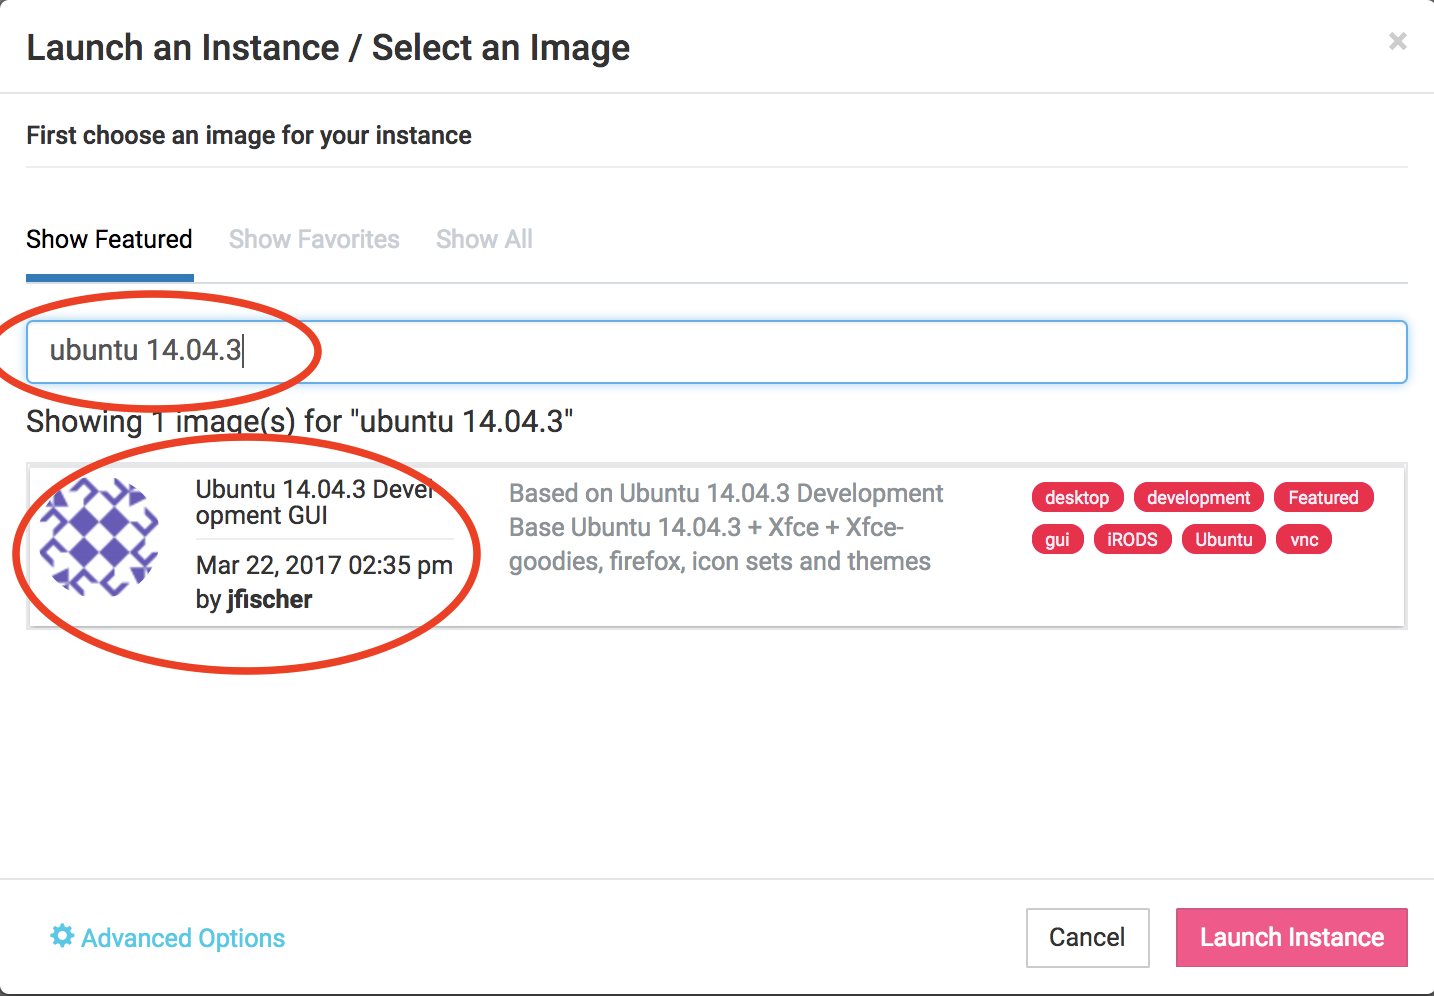
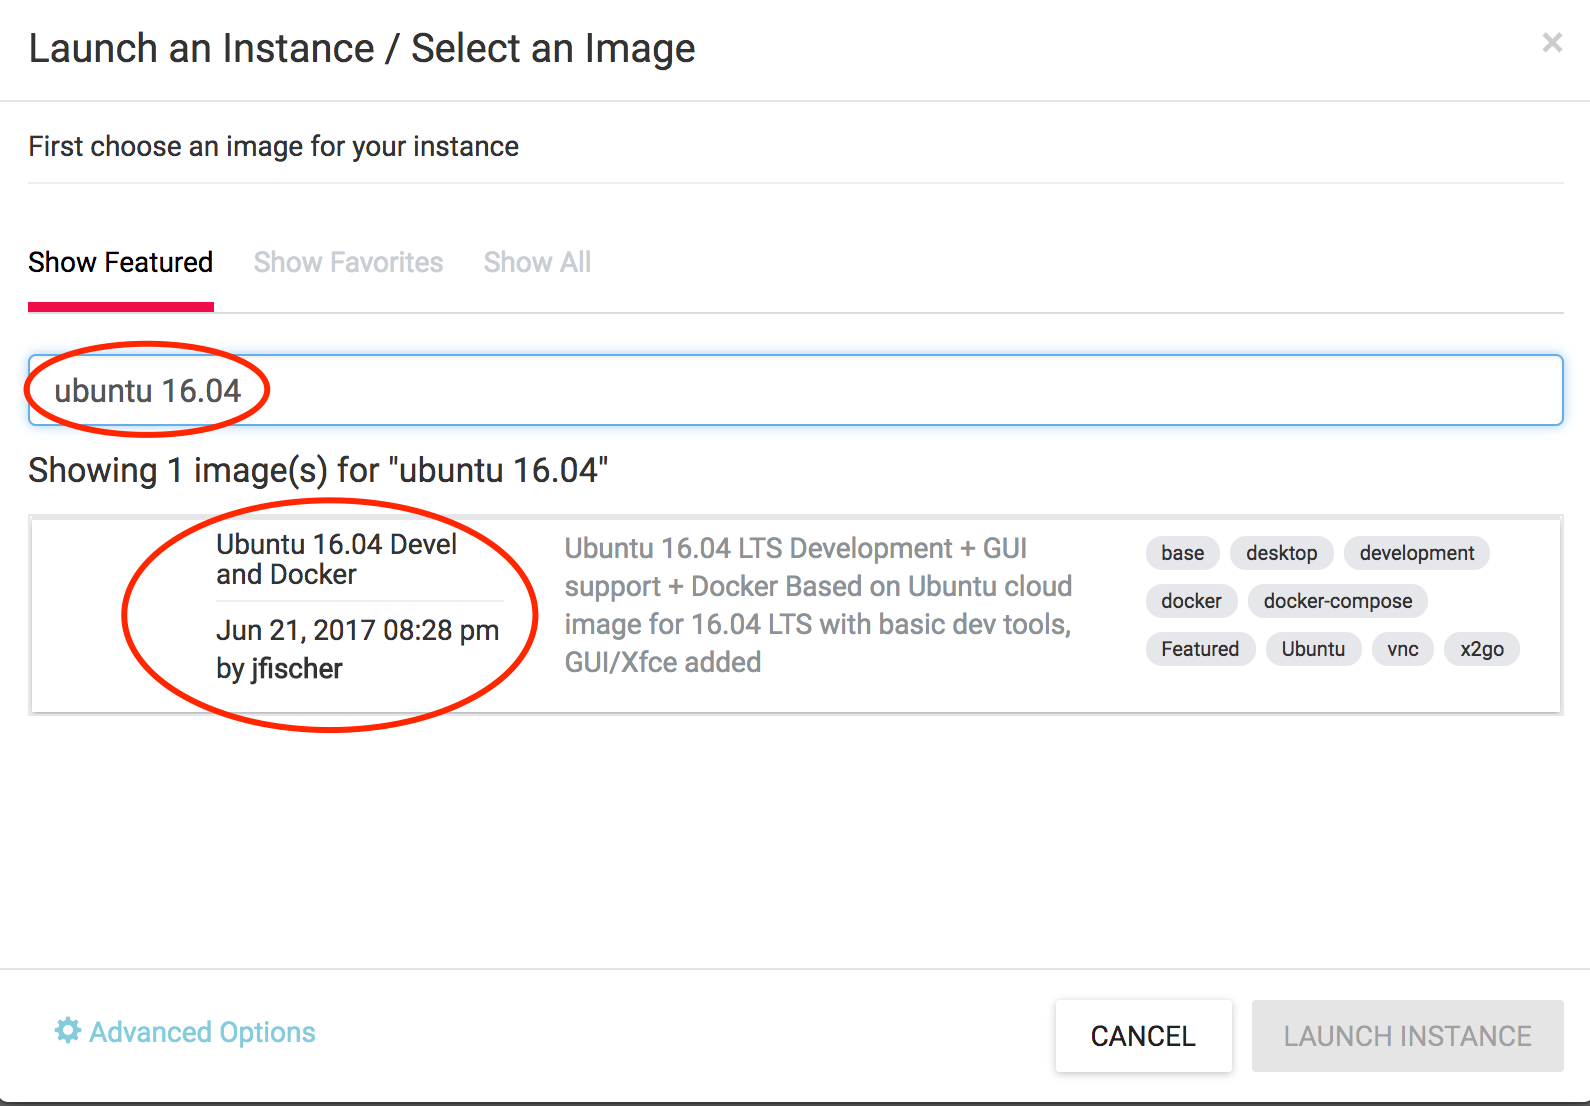
Add Jetstream from Angus

diff --git a/jetstream/boot.md b/jetstream/boot.md
@@ -1,0 +1,183 @@
+# Booting a Jetstream Computer Instance for your use!
+
+What we're going to do here is walk through starting up an running
+computer (an "instance") on the Jetstream service.
+
+Below, we've provided screenshots of the whole process. You can click
+on them to zoom in a bit.  The important areas to fill in are circled
+in red.
+
+Some of the details may vary -- for example, if you have your own XSEDE
+account, you may want to log in with that -- and the name of the operating
+system or "image" may also vary from "Ubuntu 16.04" depending on the
+workshop.
+
+-----
+
+First, go to the Jetstream application at [https://use.jetstream-cloud.org/application](https://use.jetstream-cloud.org/application).
+
+Now:
+
+## Request to log in to the Jetstream Portal
+
+Click the login link in the upper right.
+
+[![login](images/login-1.thumb.png)](../_images/login-1.png)
+
+## Use "XSEDE"
+
+Choose "XSEDE" as your account provider (it should be the default) and click
+on "Continue".
+           
+[![foo](images/login-2.thumb.png)](../_images/login-2.png)
+
+## Fill in the username and password and click "Sign in"
+
+Fill in the username, which is 'tx160085' for the ANGUS workshop,
+and then enter the password (which we will tell you in class).
+
+[![foo](images/login-3.thumb.png)](../_images/login-3.png)
+           
+## Select Projects and "Create New Project"
+
+Now, this is something you only need to once if you have your own
+account - but if you're using a shared account like tx160085, you will
+need a way to keep your computers separate from everyone else's.
+
+We'll do this with Projects, which give you a bit of a workspace in which
+to keep things that belong to "you".
+
+Click on "Projects" up along the top.
+
+[![foo](images/login-5.thumb.png)](../_images/login-5.png)
+           
+## Name the project for yourself, click "create"
+
+Enter your name into the Project Name, and something simple like "ANGUS"
+into the description. Then click 'create'.
+
+[![foo](images/login-6.thumb.png)](../_images/login-6.png)
+
+## Select the newly created project
+
+Click on your new project!
+
+[![foo](images/login-7.thumb.png)](../_images/login-7.png)
+           
+## Within the project, select "new"
+
+Now, select 'New' and then "Instance" from the dropdown menu to start up a new machine.
+
+[![foo](images/login-8.thumb.png)](../_images/login-8.png)
+
+## Find the "Ubuntu 16.04" image, click on it
+
+Enter "Ubuntu 16.04" into the search bar - make sure it's from
+June 21st, 2017.
+
+[![foo](images/login-9.thumb.png)](../_images/login-9.png)
+           
+## Name it something simple and select 'm1.medium'
+
+Change the name after what we're doing - "workshop tutorial", for example,
+but it doesn't matter -- and select 'm1.medium'.
+
+[![foo](images/login-10.thumb.png)](../_images/login-10.png)
+
+## Wait for it to become active
+
+It will now be booting up! This will take 2-10 minutes, depending.
+Just wait! Don't reload or anything.
+
+[![foo](images/login-11.thumb.png)](../_images/login-11.png)
+           
+## Click on your new instance to get more information!
+
+Now, you can either click "Open Web Shell", *or*, if you know how to use ssh,
+you can ssh in as user 'tx160085' on the IP address of the machine - see
+circled information below.  Note that you'll need to use the private key
+file we sent around to everyone in last the pre-workshop e-mail if you decide to
+use your system terminal.
+
+[![foo](images/login-12.thumb.png)](../_images/login-12.png)
+
+## Miscellany
+
+There's a possibility that you'll be confronted with this when you log in to jetstream:
+
+[![foo](images/possible_instance_problem.thumb.png)](../_images/possible_instance_problem.png)
+
+A refresh of the page should get you past it. Please try not to actually move any instances to
+a new project; it's probably someone else's and it could confuse them :)
+
+## Suspend your instance
+
+You can save your workspace so you can return to your instance at a later time without losing any of your files or information stored in memory, similiar to putting your physical computer to sleep. At the Instance Details screen, select the "Suspend" button. 
+
+[![foo](images/suspend-1.png)](../_images/suspend-1.png)
+
+This will open up a dialogue window. Select the "Yes, suspend this instance" button.
+
+[![foo](images/suspend-2.png)](../_images/suspend-2.png)
+
+It may take Jetstream a few minutes to process, so wait until the progress bar says "Suspended."
+
+### Resuming your instance
+
+To *wake-up* your instance, select the "Resume" button.
+
+[![foo](images/resume-1.png)](../_images/resume-1.png)
+
+This will open up a dialogue window. Select the "Yes, resume this instance" button. 
+
+[![foo](images/resume-2.png)](../_images/resume-2.png)
+
+It may take Jetstream a few minutes to process, so wait until the progress bar says "Active." 
+
+[![foo](images/resume-3.png)](../_images/resume-3.png)
+
+## Shutting down your instance
+
+You can shut down your workspace so you can return to your instance another day without losing any of your files, similiar to shutting down your physical computer. You will retain your files, but you will lose any information stored in memory, such as your history on the command line. At the Instance Details screen, select the "Stop" button. 
+
+[![foo](images/stop-1.png)](../_images/stop-1.png)
+
+This will open up a dialogue window. Select the "Yes, stop this instance" button.
+
+[![foo](images/stop-2.png)](../_images/stop-2.png)
+
+It may take Jetstream a few minutes to process, so wait until the progress bar says "Shutoff."
+
+[![foo](images/stop-3.png)](../_images/stop-3.png)
+
+[![foo](images/stop-4.png)](../_images/stop-4.png)
+
+### Restarting your instance
+
+To start your instance again, select the "Start" button.
+
+[![foo](images/start-1.png)](../_images/start-1.png)
+
+This will open up a dialogue window. Select the "Yes, start this instance" button. 
+
+[![foo](images/start-2.png)](../_images/start-2.png)
+
+It may take Jetstream a few minutes to process, so wait until the progress bar says "Active." 
+
+[![foo](images/start-3.png)](../_images/start-3.png)
+
+## Deleting your instance
+
+To completely remove your instance, you can select the "delete" buttom from the instance details page. 
+
+[![foo](images/delete-1.png)](../_images/delete-1.png)
+
+This will open up a dialogue window. Select the "Yes, delete this instance" button.
+
+[![foo](images/delete-2.png)](../_images/delete-2.png)
+
+It may take Jetstream a few minutes to process your request. The instance should disappear from the project when it has been successfully deleted. 
+
+[![foo](images/delete-3.png)](../_images/delete-3.png)
+
+[![foo](images/delete-4.png)](../_images/delete-4.png)

diff --git a/jetstream/login.md b/jetstream/login.md
@@ -1,0 +1,93 @@
+# Logging in to jetstream from your local terminal with a key file
+
+Some of us have had problems with the web shell and getting into the Jetstream
+portal. These materials will show you how to log in using an SSH key through your
+local terminal.
+
+## Concerning Keys
+
+Cryptographic keys are a convenient and secure way to authenticate without having to use
+passwords. They consist of a pair of files called the public and private keys: the public part can
+be shared with whoever you'd like to authenticate with (in our case, Jetstream!), and the private
+part is kept "secret" on your machine. Things that are encrypted with the public key can be be
+decrypted with the private key, but it is computationally intractable (ie, it would take on the
+order of thousands of years) to determine a private key from a public key. You can read more about
+it [here](https://en.wikipedia.org/wiki/Public-key_cryptography).
+
+The good news is that there is already a registered public key for our Jetstream account. However,
+to make use of it, you'll need the private key. And so, we move on!
+
+## Getting the Private Key
+
+The private key has been posted on slack in the `#general` channel. You can download it by 
+visiting [here](https://dibsi.slack.com/files/camillescott/F60FMTCCA/angus_private_key), selecting
+**Actions**, and pressing download.
+
+## Getting your instance IP address
+
+In order to connect to your instance, we need to know its IP address, its unique identifier on the
+internet. This is listed in your instance details, circled below:
+
+[![stuff](images/ip-address.png)](../_images/ip-address.png)
+
+Now, things diverge a little.
+
+## On MacOS/Linux
+
+These systems have their own terminal by default. Find and open your terminal: on MacOS, you can
+search for Terminal in finder. 
+
+We're going to assume that the key file ended up in your `Downloads` folder. In your terminal,
+run:
+
+```bash
+cd && mv ~/Downloads/angus_private_key .
+```
+
+This puts the file in your home folder. Now, we need to set its permissions more strictly:
+
+```bash
+chmod 600 angus_private_key
+```
+
+Finally, we can use the IP address from before, along with the common login name and the key, to log
+in:
+
+```bash
+ssh -i angus_private_key tx160085@YOUR_IP_ADDRESS
+```
+
+You should now have access to atmosphere within your local terminal.
+
+## On Windows
+
+For Windows, we first need to actually *install* a terminal.
+
+### Install mobaxterm
+
+First, download [mobaxterm home edition (portable)](http://mobaxterm.mobatek.net/download-home-edition.html)
+and run it.
+
+### Start a new session
+
+[![foo](images/moba-1.png)](../_images/moba-1.png)
+
+### Fill in session settings
+
+Fill in your "remote host," which will be the IP address from earlier. Then select
+"specify username" and enter `tx160085`.
+
+[![foo](images/ec2-moba-2.png)](../_images/ec2-moba-2.png)
+
+### Specify the session key
+
+Copy the downloaded private file onto your primary hard disk (generally
+C:) and the put in the full path to it.
+
+[![foo](images/ec2-moba-3.png)](../_images/ec2-moba-3.png)
+
+### Click OK
+
+Victory!
+
+[![foo](images/ec2-moba-4.png)](../_images/ec2-moba-4.png)

diff --git a/jetstream/ssh_changepassword.md b/jetstream/ssh_changepassword.md
@@ -1,0 +1,22 @@
+# Adding password to a Jetstream instance
+
+To add a password to your Jetstream instance, 'Open the Web Shell' from the instance page.
+
+```
+sudo password tx160085
+```
+Enter a password when prompted. The letters will not display when you type, so do not be alarmed.
+
+![](images/password-change.png)
+
+Exit out of the Web Shell.
+
+Open your terminal and login:
+
+```
+ssh tx160085@149.165.157.62
+```
+
+Type your password when prompted.
+
+![](images/jetstream_login.png)
